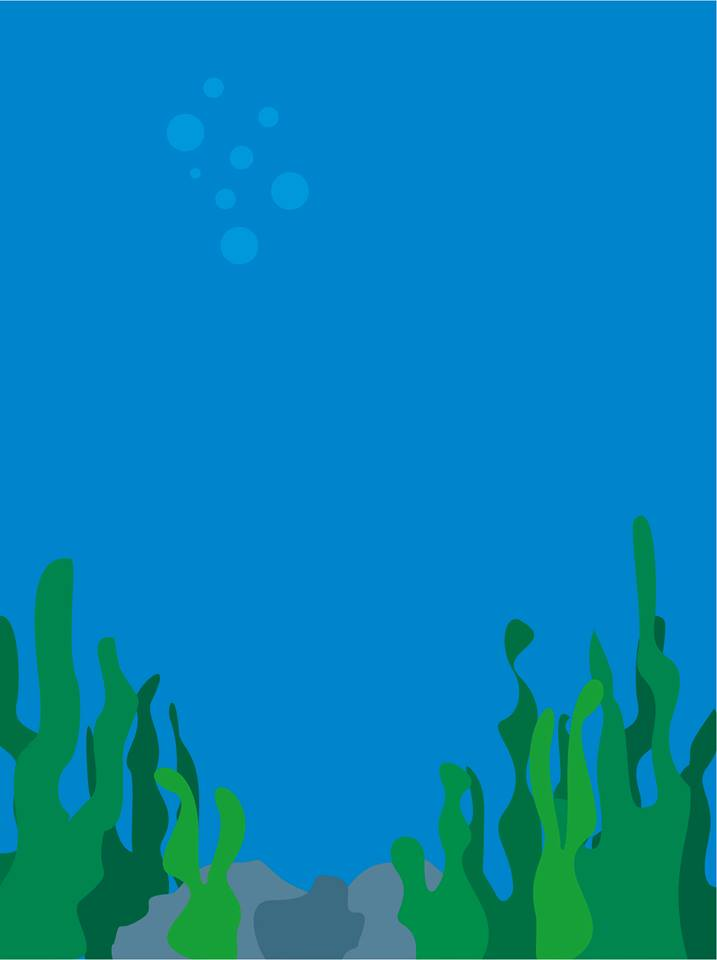
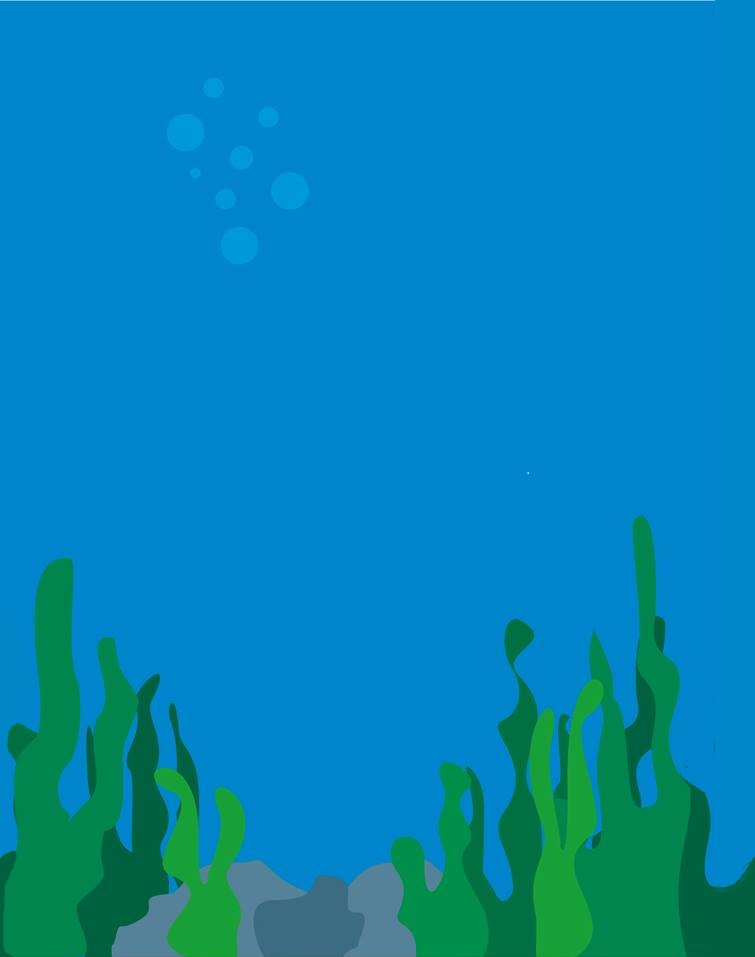
Consertado bug com repetir, plano de fundo comp repetição horizontal

diff --git a/www/index.html b/www/index.html
@@ -64,7 +64,7 @@
 	<!-- Tela principal -->
     <ion-pane>
       <ion-content style="background-image: url('img/fundo.jpg') ;
-       background-repeat: no-repeat;
+       background-repeat: repeat-x;
 		background-size:contain;background-position:center;background-color:#0084cc">
 		
       <div ng-controller="MainController" id="controller" >

diff --git a/www/js/main.js b/www/js/main.js
@@ -138,9 +138,12 @@ $(document).on("ready", function() {
 			
 		});
 		
+		//Repetir
 		$(".repetir").on("click",function(){
+			if (!cronometro.isPausado()) {
 				cronometro.pausa();
 				reiniciarJogo();
+			}
 		});
 		
 		
